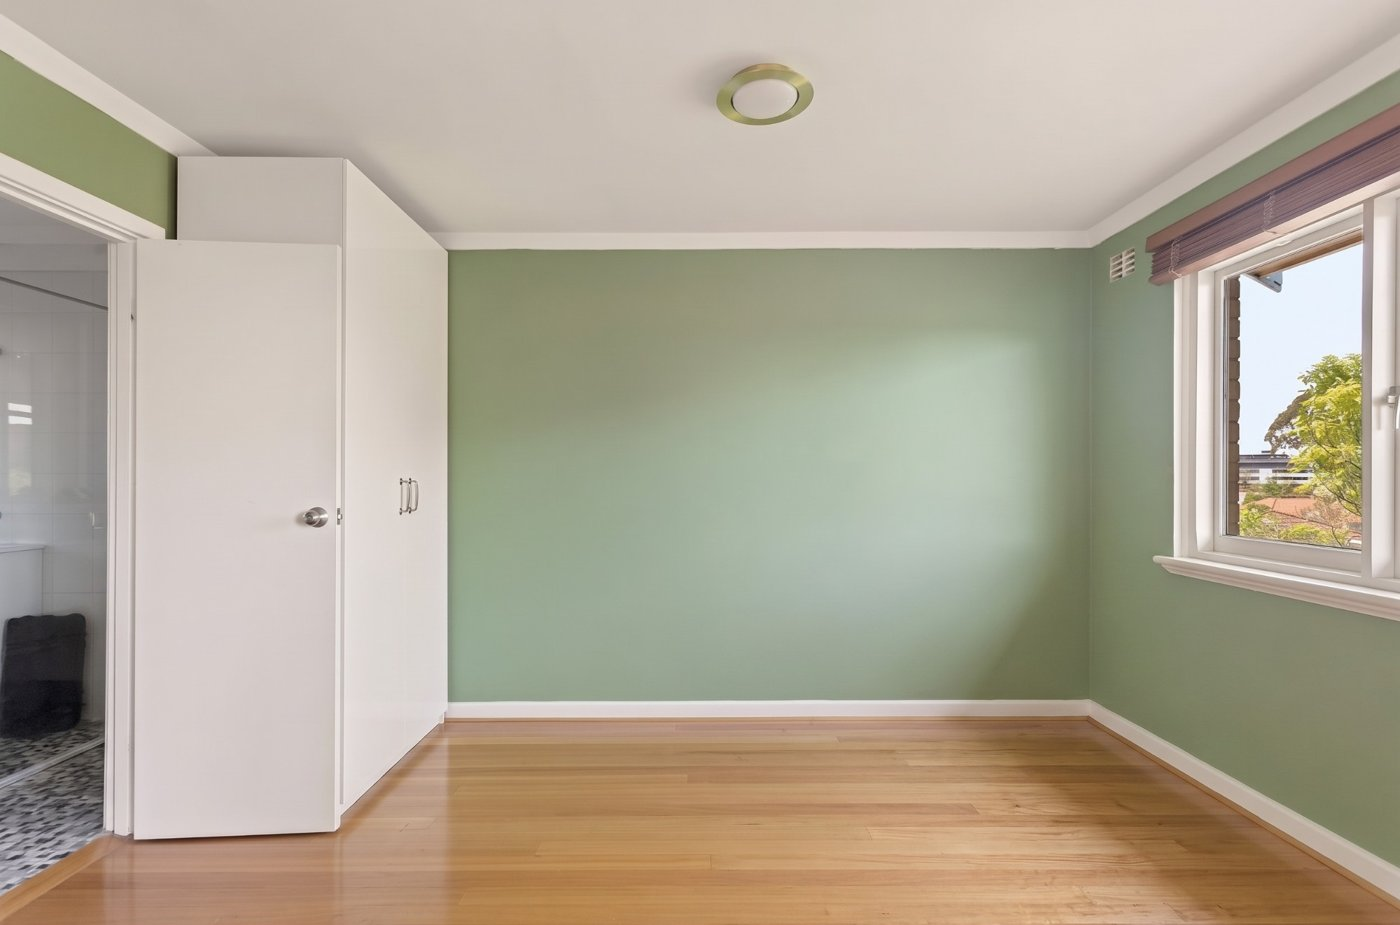
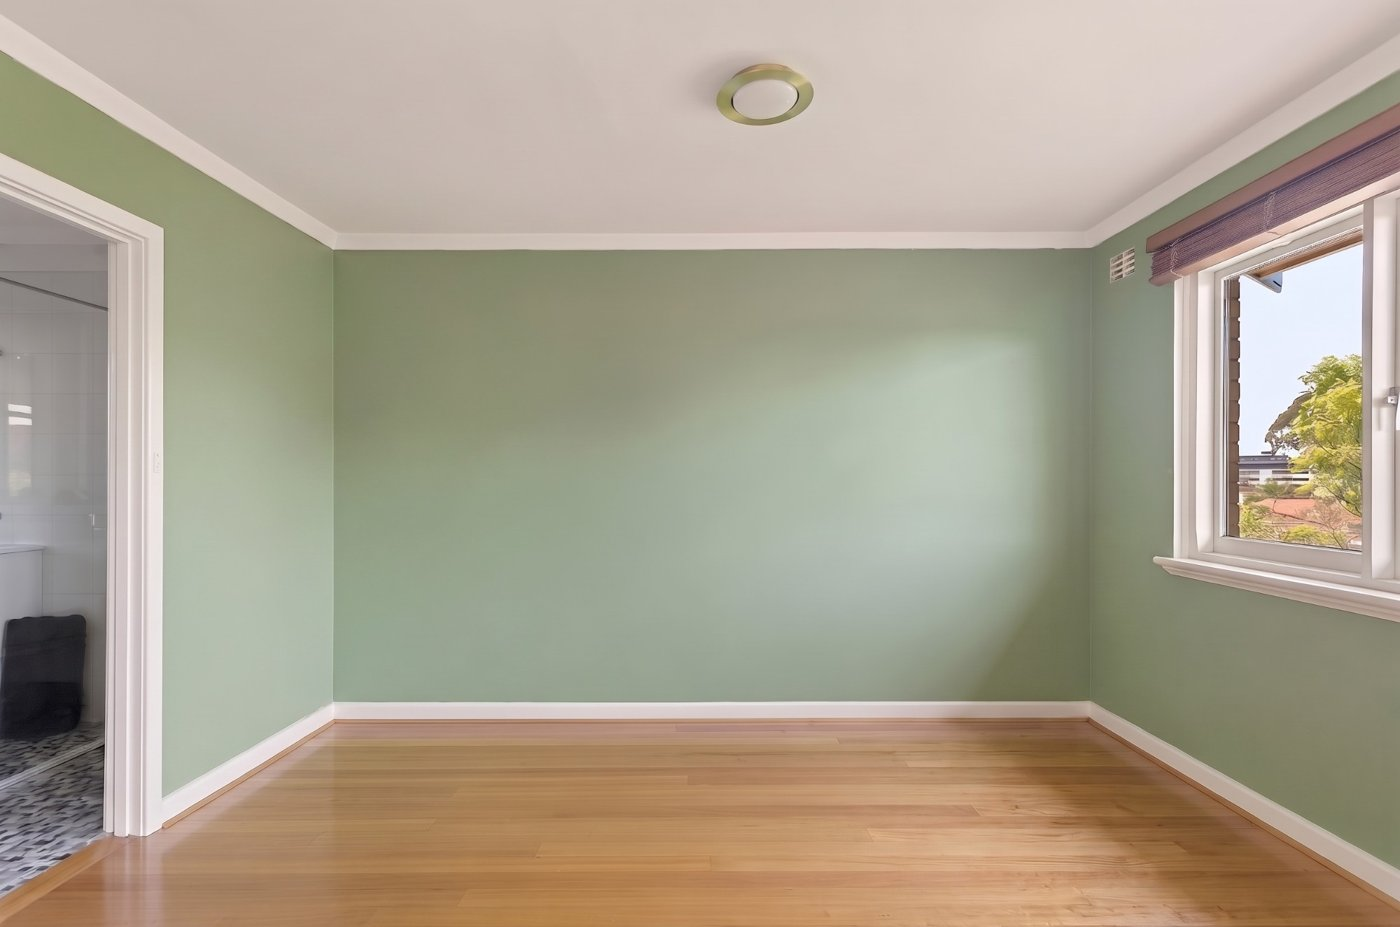
Use +/- toggles left of category titles; swap in wardrobe-free bedroom photo
Claude-Session: https://claude.ai/code/session_01Ge7AgpaYZPEs2SmcNVxrKB

Changed region(s): [[0.0614, 0.1514, 0.3379, 1.0], [0.86, 0.3935, 1.0, 0.6054], [0.0, 0.9081, 0.0614, 0.9384]]

diff --git a/index.html b/index.html
@@ -152,10 +152,13 @@
   #mood-sections .cat-group .mood-grid{margin-top:14px}
   summary.cat-label::-webkit-details-marker{display:none}
   summary.cat-label:hover{color:var(--ink)}
-  summary.cat-label .chev{
-    margin-left:auto; font-size:10px; color:var(--ink-45); transition:transform .15s ease; flex:none;
+  /* + / − toggle to the left of a collapsible category title */
+  summary.cat-label .toggle{
+    flex:none; width:14px; text-align:center;
+    font-family:var(--font-mono); font-size:14px; font-weight:500; line-height:1; letter-spacing:0;
   }
-  details[open] > summary.cat-label .chev{transform:rotate(90deg)}
+  summary.cat-label .toggle::before{content:"+"}
+  details[open] > summary.cat-label .toggle::before{content:"\2212"}
 
   #rooms{padding-top:28px}
 
@@ -616,7 +619,7 @@
     { section:"Real Estate Photos", img:"moodboard/empty-kitchen-bedroom.jpg", caption:"Kitchen & bedroom doorway", room:"Kitchen" },
     { section:"Real Estate Photos", img:"moodboard/empty-bedroom.jpg",          caption:"Bed wall & balcony door",  room:"Bedroom" },
     { section:"Real Estate Photos", img:"moodboard/empty-bedroom-window.jpg",   caption:"Bedroom window",           room:"Bedroom" },
-    { section:"Real Estate Photos", img:"moodboard/empty-bedroom-wardrobe.jpg", caption:"Wardrobe & ensuite door",  room:"Bedroom" },
+    { section:"Real Estate Photos", img:"moodboard/empty-bedroom-wardrobe.jpg", caption:"Ensuite door, wardrobe removed", room:"Bedroom" },
     { section:"Real Estate Photos", img:"moodboard/empty-living-entry.jpg",     caption:"Living room toward the entry", room:"Living" },
     { section:"Real Estate Photos", img:"moodboard/empty-ensuite.jpg",          caption:"Ensuite",                  room:"Bathroom" },
     { section:"Real Estate Originals", img:"moodboard/living-kitchen.jpg",   caption:"Living, dining & kitchen", room:"Living" },
@@ -894,8 +897,8 @@
       });
       var summary = document.createElement("summary");
       summary.className = "cat-label";
+      summary.appendChild(el("span", "toggle"));
       summary.appendChild(document.createTextNode(cat));
-      summary.appendChild(el("span", "chev", "▸"));
       details.appendChild(summary);
       section.appendChild(details);
 
@@ -1249,8 +1252,8 @@
       });
       var summary = document.createElement("summary");
       summary.className = "cat-label";
+      summary.appendChild(el("span", "toggle"));
       summary.appendChild(document.createTextNode(name));
-      summary.appendChild(el("span", "chev", "▸"));
       details.appendChild(summary);
       wrap.appendChild(details);
 
